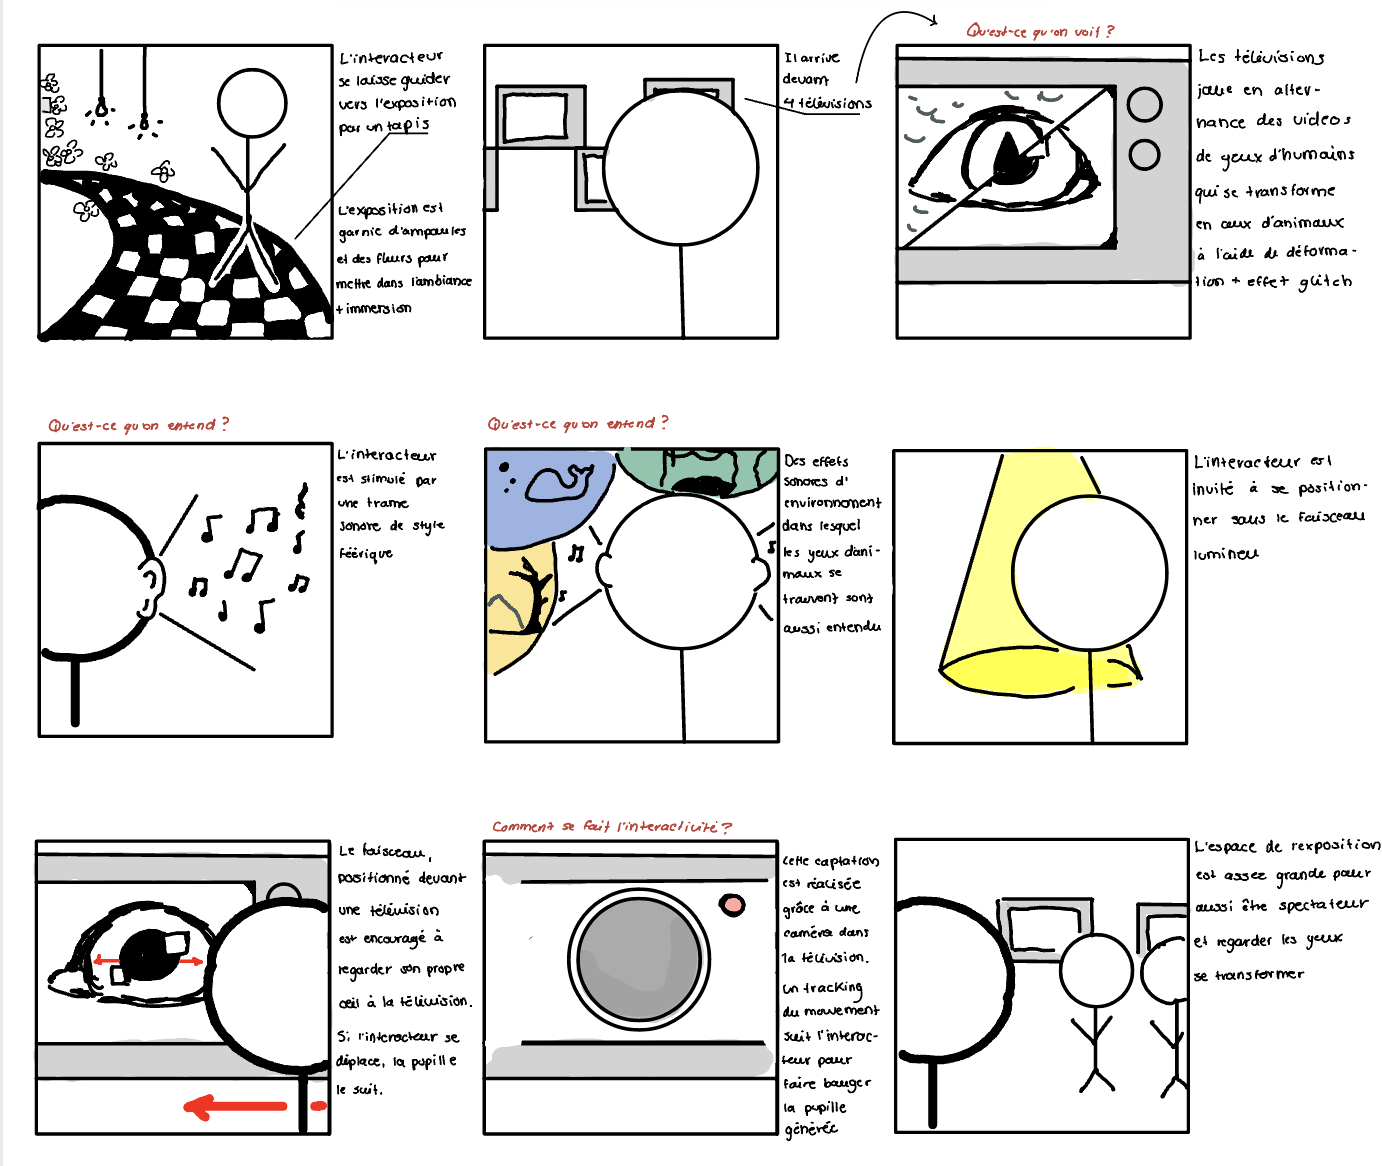
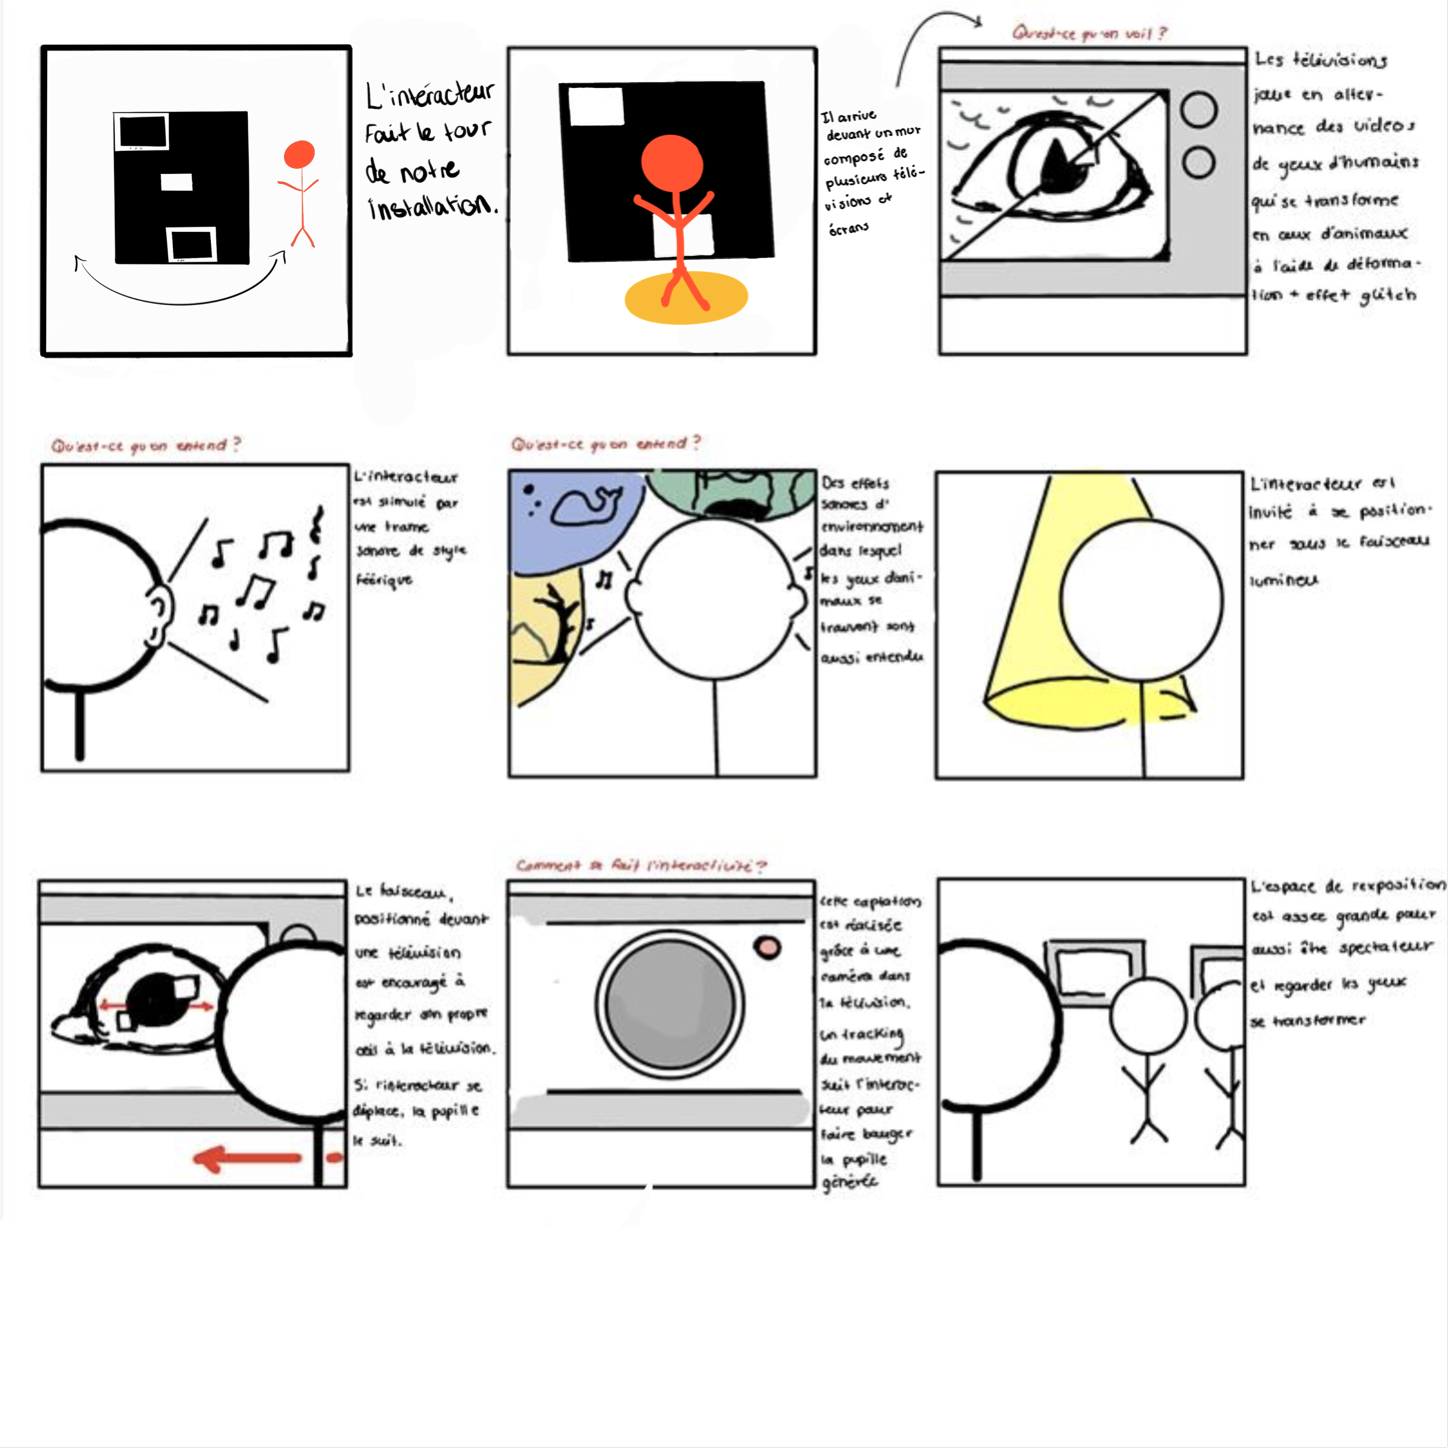
corrections

diff --git a/scenario/README.md b/scenario/README.md
@@ -1,5 +1,7 @@
 # Scénario
+
 Cette section présente le scénario de l'interactivité du projet.
+
 ## Scénarisation de l'interactivité
 
 ### Scène 1
@@ -21,6 +23,7 @@ Cette section présente le scénario de l'interactivité du projet.
 | Se déplace de gauche à droite     | Mouvements captés par le capteur (caméra)                                                    | Les yeux de deux télévisions, maintenant de l'interacteur, reflètent le mouvement de la personne, donc suit celle-ci                                                                                               | La même musique de fond joue avec les textures sonores d'animaux                                                               | L'installation traduit les gestes en visuels et lumières |
 | Se déplace de l'arrière à l'avant | Mouvements captés par le capteur (caméra)                                                    | Les yeux de deux télévisions, maintenant de l'interacteur, reflètent le mouvement de la personne, donc suit celle-ci si elle se rapproche ou s'éloigne                                                             | La même musique de fond joue avec les textures sonores d'animaux                                                               | L'installation traduit les gestes en visuels et lumières |
 | Sauter                            | Mouvements captés par le capteur (caméra) ou risque de perte de la présence de l'intéracteur | Les yeux de deux télévisions, maintenant de l'interacteur, reflètent le mouvement de la personne, mais peuvent se retransformer en animaux si le mouvemnent est trop rapide / le saut est trop haut pour le suivis | La même musique de fond joue avec les textures sonores d'animaux                                                               | L'installation traduit les gestes en visuels et lumières |
+| Se déplacer autour de l'oeuvre    | Aucune détection de la présence de l'intéracteur                                             | Les vidéos des regards d'animaux se transforment en yeux d'humains avec un fondu du noir et les lumières changent de couleur                                                                                       | La même musique de fond joue avec les textures sonores d'animaux                                                               | L'installation devient contemplative                     |
 
 ### Scène 3
 

diff --git a/technique/README.md b/technique/README.md
@@ -5,39 +5,40 @@
 **Équipement audiovisuel**
 | Nom | Disponibilité | Quantité |
 |-------------------------|---------------|----------|
-| Télévision cathodique | X | 3 |
+| Télévision cathodique | X | 4 |
 | Caméra Sony A6500| ✔ | 1 |
 | Ordinateur | ✔ | 1 |
 | Haut-parleurs | ✔ | 2 |
 | Carte de son | ✔ | 1 |
-| Carte de capture hdmi | ✔ | 1 |
+| Carte de capture HDMI | ✔ | 1 |
 | Pile de camera filaire | ✔ | 1 |
-| Switch ethernet poe | ✔ | 1 |
+| Switch Ethernet poe | ✔ | 1 |
 | Kit raspberry pie avec écran (Guillaume) | ✔ | 8 |
 
 **Éclairage**
 | Nom | Disponibilité | Quantité |
 |--------------------|---------------|----------|
-| Ampoule lumineuse | ✔ | 6 |
+| Ampoule lumineuse | X | à revoir |
 | Lumière LED | ✔ | 4 |
-| Lumière DMX | ✔ | 2 |
+| Lumière DMX | ✔ | 4 |
 | Spotlight | ✔ | 1 |
 
 **Accessoires et décor**
 | Nom | Disponibilité | Quantité |
 |-----------------------------|---------------|----------|
-| Bouquet de fleurs blanches | ✔ | 6 |
+| Bouquet de fleurs blanches | X | 6 |
 | Tissu noir | X | à determiner |
 
 **Câblage**
 | Nom | Disponibilité | Quantité |
 |-------------------------------|---------------|----------|
-| Câble rca | ✔ | 3 |
-| Adaptateur av vers HDMI | X | 3 |
-| Câble xlr | ✔ | 4 |
+| Câble RCA | à demandé | 4 |
+| Adaptateur AV vers HDMI / Display Port | X | 4 |
+| Câble XLR | ✔ | 4 |
 | Câble Ethernet | ✔ | 9 |
-| Câble HDMI | ✔ | 3 |
-| Multiprise | X | 4 |
+| Câble HDMI | ✔ | 2 |
+| Câble Display Port | ✔ | 2 |
+| Multiprise | ✔ | 4 |
 
 ## Logiciels
 
@@ -70,6 +71,10 @@ Connecter avec les lumières avec OBS
 ### - OBS
 
 Relier les expériences visuelles interactive pour les lumières
+
+### - FL Studio
+
+Créer des expériences auditives
 
 ![](logiciels.png)
 
